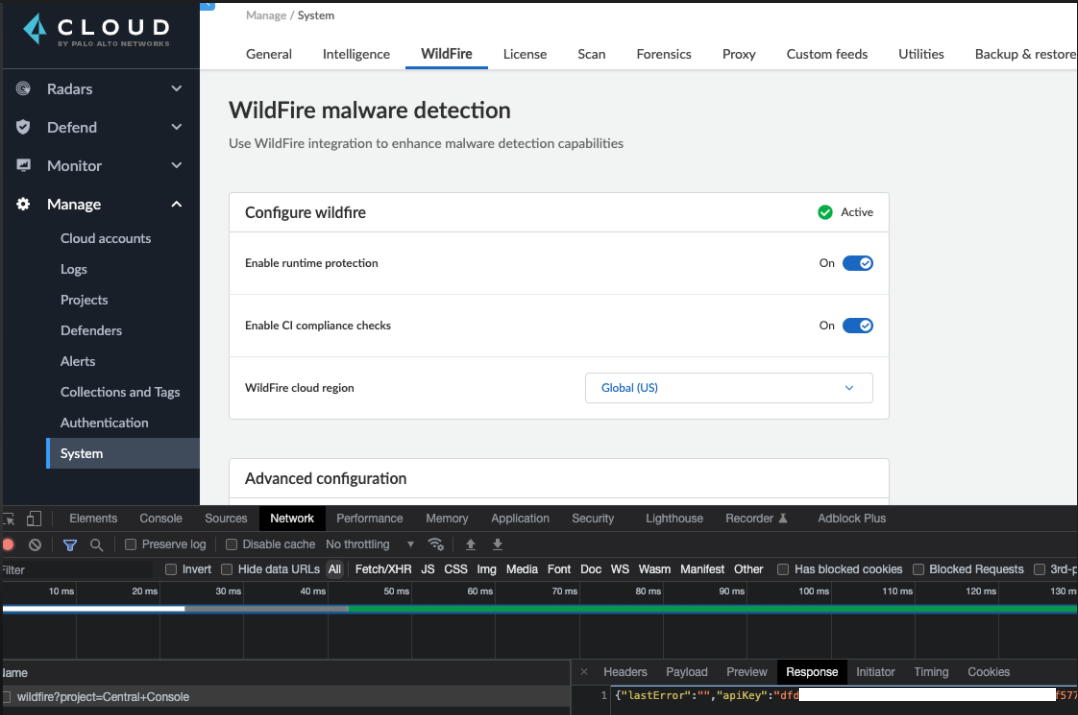
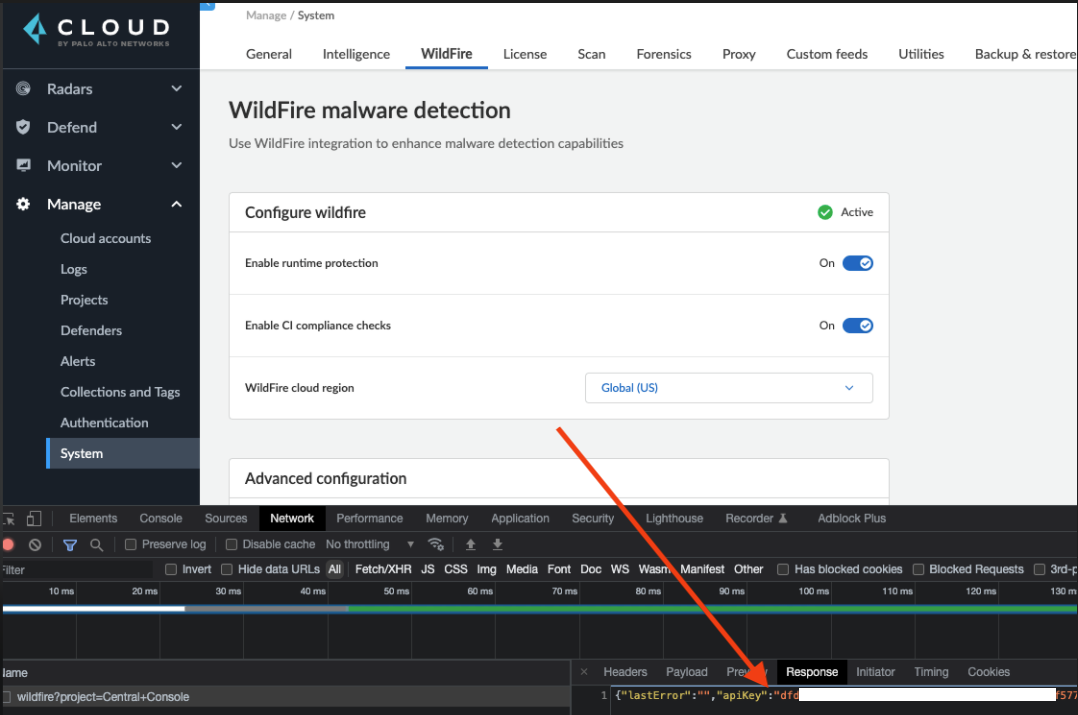
clear pic and add wf portal

diff --git a/Testing Defender and WildFire/README.md b/Testing Defender and WildFire/README.md
@@ -1,6 +1,6 @@
 ## To test Defender to WildFire communication
 
-To get Compute WildFire api key go to Console and Manage > System then open browser devtools, network tab, then click WildFire and view **wildfire** response for apiKey:
+To get Compute WildFire api key go to Console and Manage > System then open browser devtools, network tab, then click WildFire and view **wildfire** response for apiKey: (you can also get the apiKey from your [WildFire Account page](https://wildfire.paloaltonetworks.com/wildfire/account))
 ![](./images/2022-05-20-08-09-38.png)
 
 #### Get test file:
